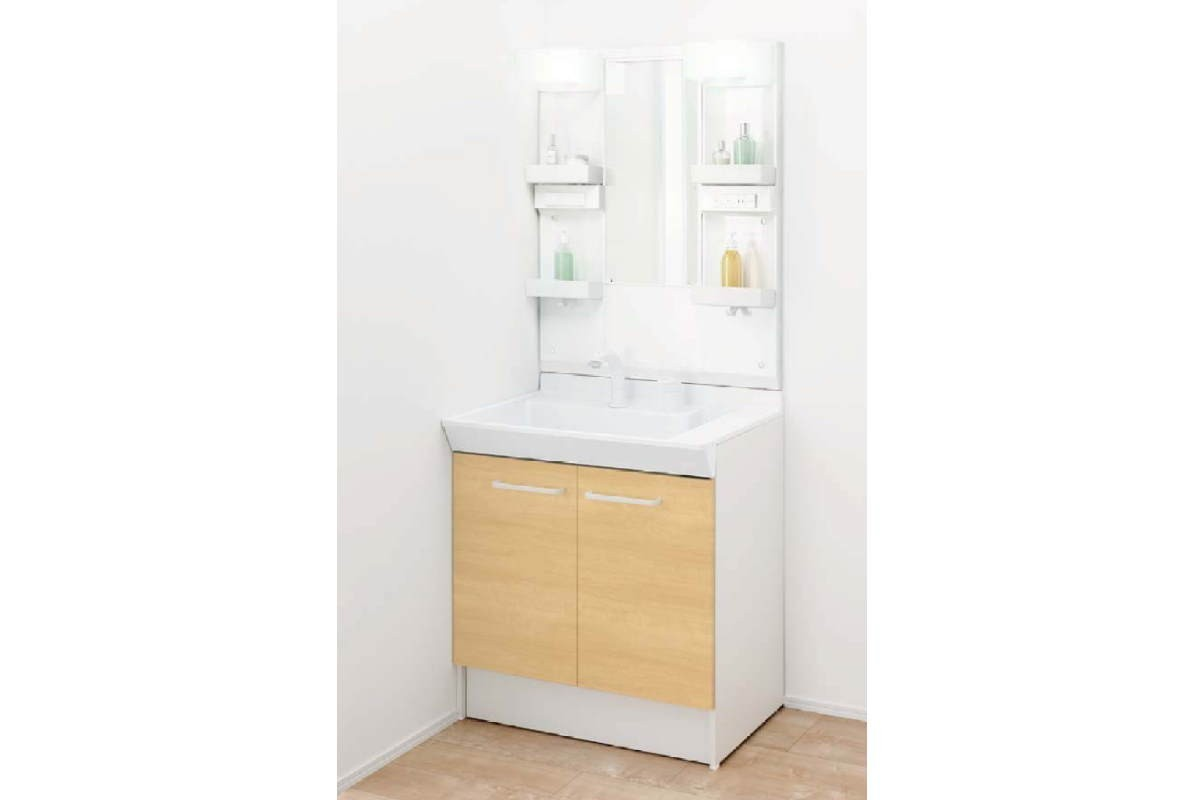
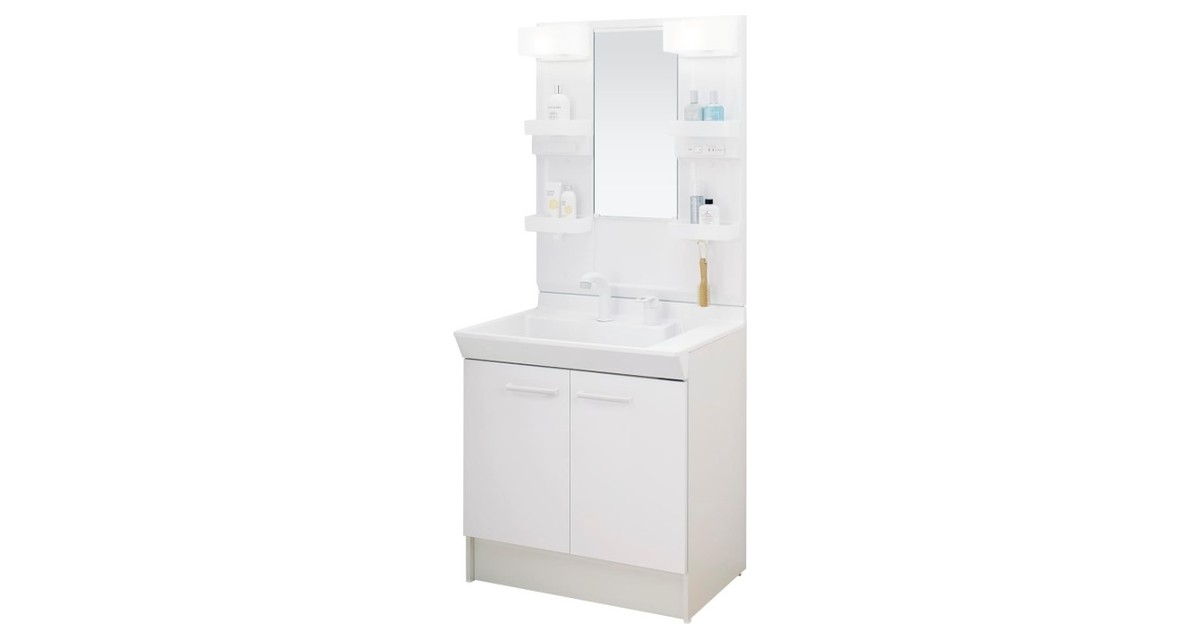
V1メイン写真入替

Changed region(s): [[0.2775, 0.0312, 0.74, 1.0]]

diff --git a/wp/ymkrf-setup.php b/wp/ymkrf-setup.php
@@ -14,7 +14,7 @@
 
 if ( ! defined( 'ABSPATH' ) ) exit;
 
-define( 'YMKRF_SETUP_VER', '54' );
+define( 'YMKRF_SETUP_VER', '55' );
 
 /* キッチンの「ヤマキシ標準工事内容」。
    ホームページの一覧表（7項目）と、番号入りの図（8項目）の
@@ -3791,10 +3791,14 @@ add_action( 'init', function () {
 		/* オフローラとリデアMも、同じように左右の白い余白を切りました */
 		'ofuroa'   => array( 'ofuroa-main.jpg',  'Panasonic オフローラ 1坪サイズ（ユニットバス）' ),
 		'lidea-m'  => array( 'lidea-main.jpg',   'LIXIL リデア Mタイプ 1坪サイズ（ユニットバス）' ),
+		/* 洗面化粧台V1は、いただいた新しい写真（中央ぞろえ）に差し替えました */
+		'v1'       => array( 'v1-main.jpg',      'LIXIL V1 洗面化粧台 間口75cm', 'v2' ),
 	);
 	foreach ( $retrim as $slug => $info ) {
 		$tp = get_page_by_path( $slug, OBJECT, 'ymkrf_product' );
-		if ( ! $tp || get_post_meta( $tp->ID, '_ymkrf_main_ver', true ) === 'trim' ) continue;
+		/* 3つめの値があれば、それを合言葉にします（写真を替えるたびに増やせます） */
+		$ver = isset( $info[2] ) ? $info[2] : 'trim';
+		if ( ! $tp || get_post_meta( $tp->ID, '_ymkrf_main_ver', true ) === $ver ) continue;
 
 		$old = $img( $info[0] );
 		if ( $old ) wp_delete_attachment( $old, true );
@@ -3802,8 +3806,8 @@ add_action( 'init', function () {
 		$new = $img( $info[0], $info[1], true );
 		if ( $new ) {
 			set_post_thumbnail( $tp->ID, $new );
-			update_post_meta( $tp->ID, '_ymkrf_main_ver', 'trim' );
-			$log[] = get_the_title( $tp->ID ) . 'のメイン写真を、余白を切ったものに差し替えました';
+			update_post_meta( $tp->ID, '_ymkrf_main_ver', $ver );
+			$log[] = get_the_title( $tp->ID ) . 'のメイン写真を差し替えました';
 		}
 	}
 
